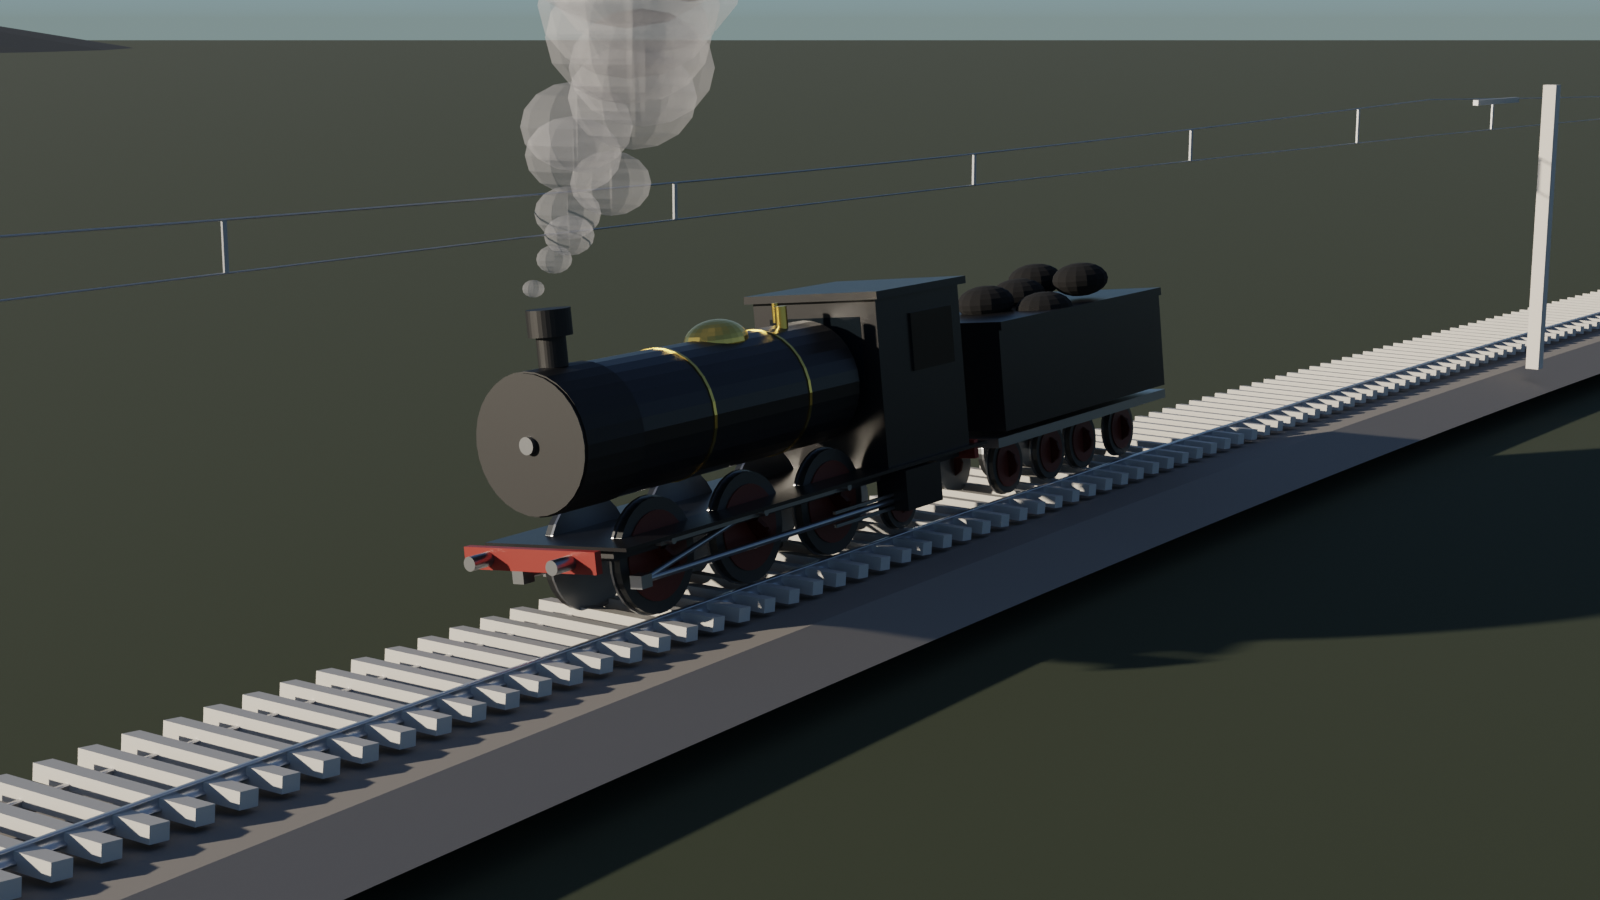
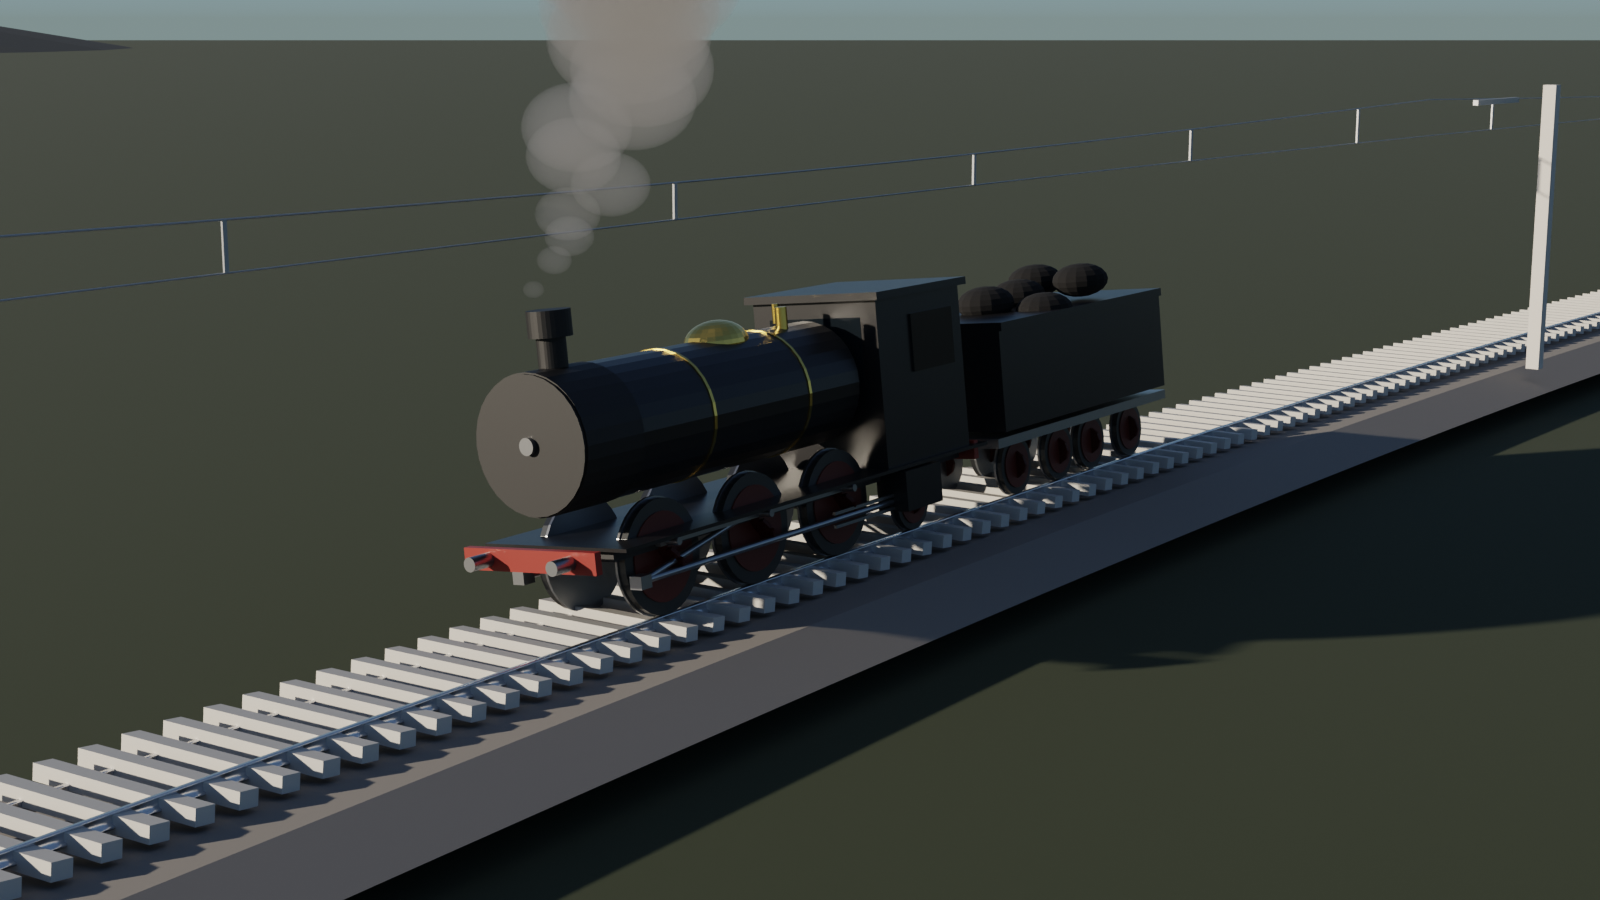
final renders + README + verification gates

diff --git a/sefer.py b/sefer.py
@@ -203,10 +203,10 @@ def duman_havuzu(refs, adet=16):
 
 
 def duman_guncelle(havuz, kaynak_dunya, t, ruzgar=(-1.6, 0.35)):
-    n = len(havuz)
+    adet = len(havuz)
     periyot = 0.42
     for i, p in enumerate(havuz):
-        faz = ((t / periyot + i / n) % 1.0)
+        faz = ((t / periyot + i / adet) % 1.0)
         yas = faz * 2.8
         p.location = (kaynak_dunya.x + ruzgar[0] * yas + 0.35 * math.sin(yas * 2 + i),
                       kaynak_dunya.y + ruzgar[1] * yas + 0.3 * math.cos(yas * 1.7 + i * 2),
@@ -214,9 +214,11 @@ def duman_guncelle(havuz, kaynak_dunya, t, ruzgar=(-1.6, 0.35)):
         olcek = 0.28 + 1.5 * yas
         p.scale = (olcek, olcek, olcek * 0.8)
         m = p.data.materials[0]
-        b = m.node_tree.nodes.get("Principled BSDF")
-        if b and "Alpha" in b.inputs:
-            b.inputs["Alpha"].default_value = max(0.03, 0.5 * (1.0 - faz))
+        if m.use_nodes:
+            for dugum in m.node_tree.nodes:
+                if dugum.type == "VOLUME_PRINCIPLED":
+                    dugum.inputs["Density"].default_value = \
+                        0.8 * (1.0 - faz) ** 1.5
         p.visible_shadow = False
 
 
